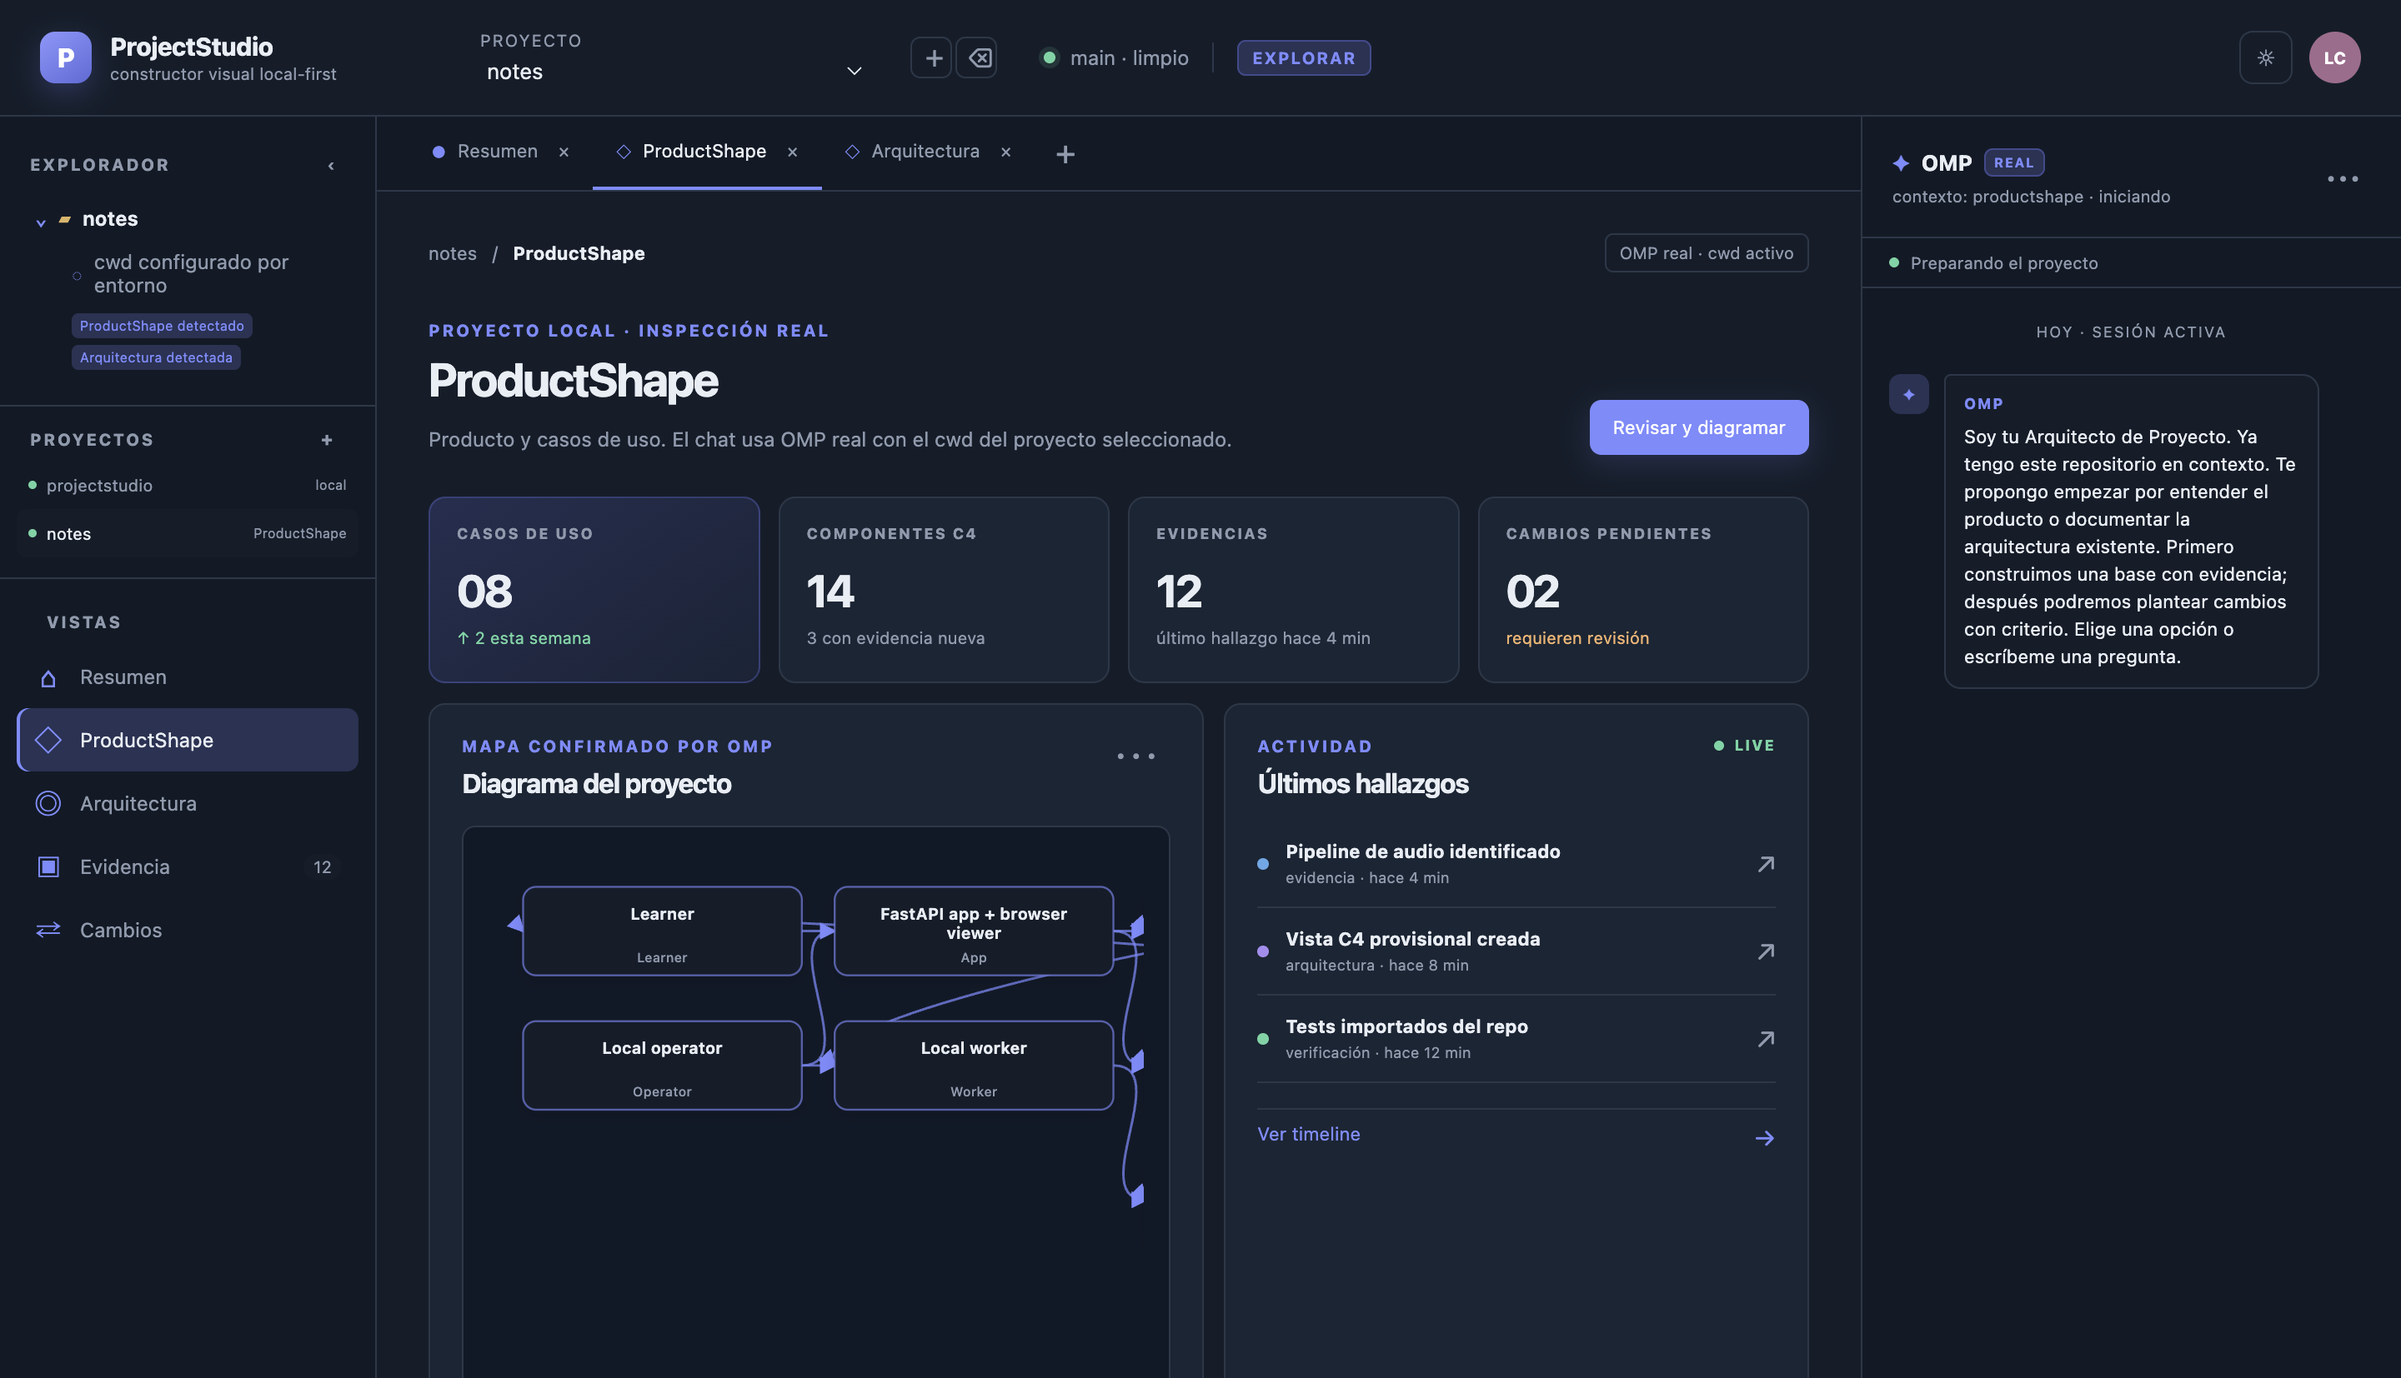
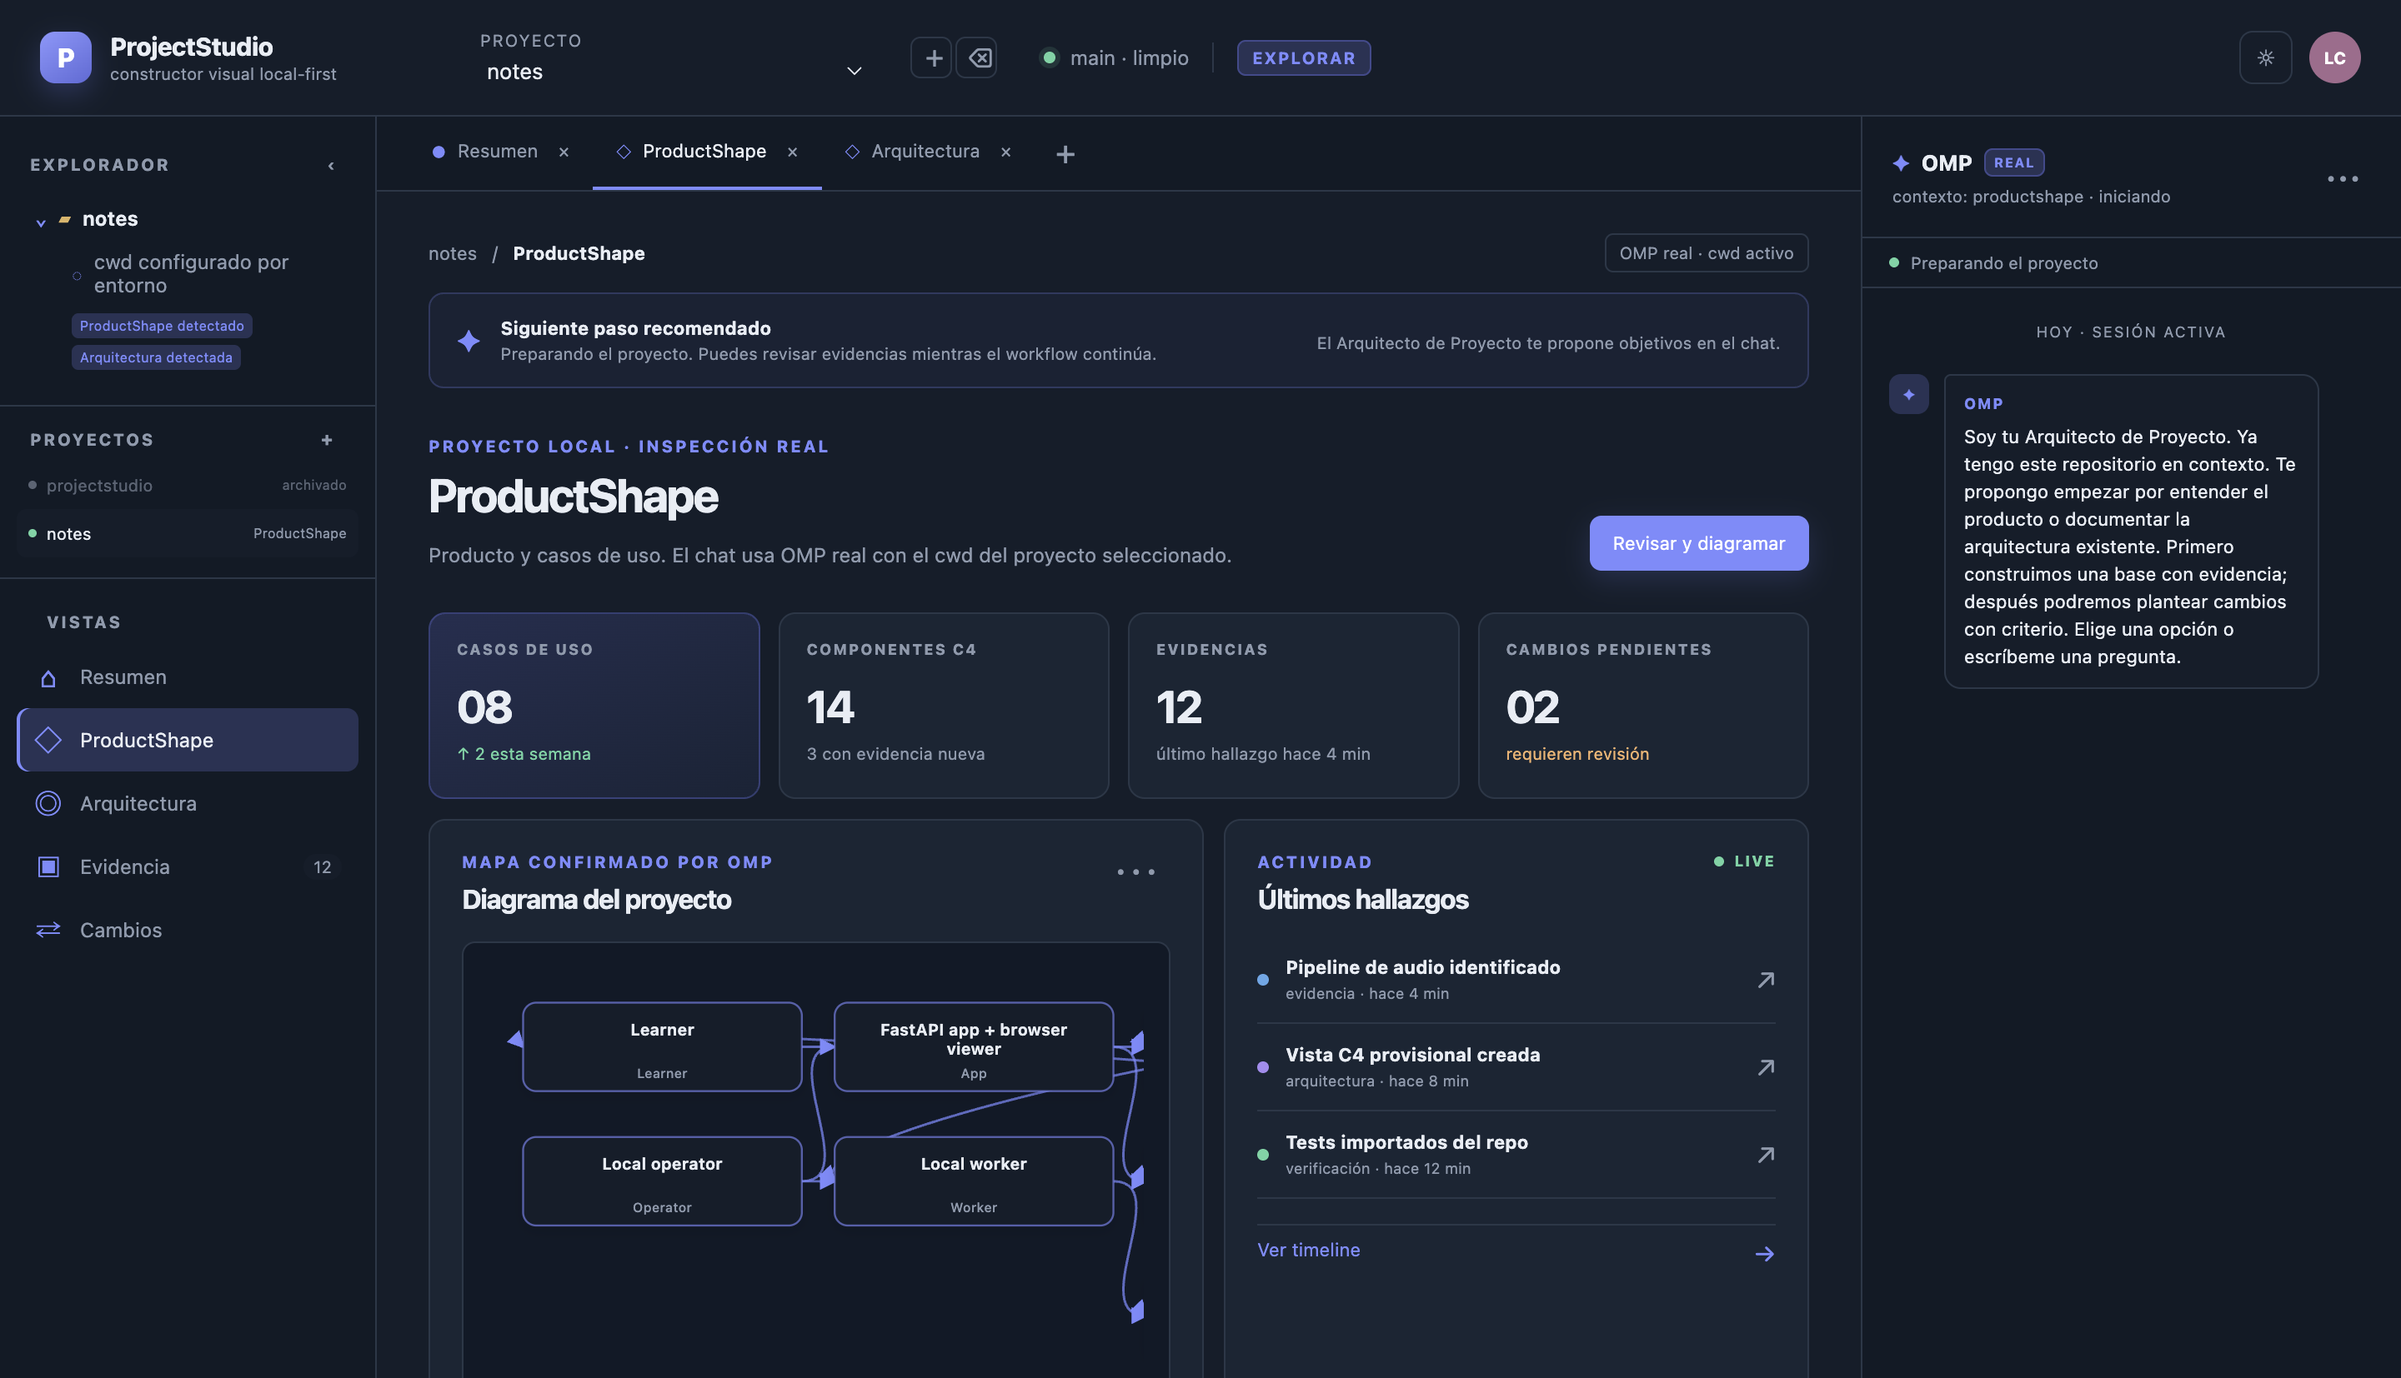
test: cover human brownfield journeys

diff --git a/apps/desktop/src/renderer/main.tsx b/apps/desktop/src/renderer/main.tsx
@@ -82,7 +82,12 @@ function displayChatStatus(status: string): string {
   if (status === "starting" || status === "submitting") return "iniciando";
   return "trabajando";
 }
-
+function humanizeError(error: unknown): string {
+  const message = error instanceof Error ? error.message : String(error);
+  if (/ENOENT|spawn .*omp|omp.*not found/i.test(message)) return "No se pudo conectar con OMP. Comprueba que `omp` está instalado, autenticado y disponible en PATH.";
+  if (/login|auth|credential|model/i.test(message)) return "OMP necesita autenticación y un modelo configurado. Ejecuta `omp login` y vuelve a intentarlo.";
+  return message;
+}
 function App(): JSX.Element {
   const [section, setSection] = useState<Section>("Resumen");
   const [theme, setTheme] = useState<"dark" | "light">("dark");
@@ -118,7 +123,7 @@ function App(): JSX.Element {
     setChatMode(result.mode);
     setChatStatus(result.status);
     setProject(`${result.projectName} · cwd configurado`);
-    if (result.error) setChatError(result.error);
+    if (result.error) setChatError(humanizeError(result.error));
     const bootstrap = await window.studio.project.bootstrap({ resume: false });
     if (bootstrap.status === "running") {
       setSending(true);
@@ -162,7 +167,7 @@ function App(): JSX.Element {
           window.setTimeout(() => void sendMessage(nextObjective.prompt, nextObjective.workflow), 0);
         }
       } else if (event.type === "warning" || event.type === "error") {
-        setChatError(event.message);
+        setChatError(humanizeError(event.message));
         setActivity("No se pudo completar la tarea");
         setChatStatus("failed");
         setSending(false);
@@ -170,7 +175,7 @@ function App(): JSX.Element {
     });
     void reloadProjectSurface().catch((error: unknown) => {
       setChatStatus("failed");
-      setChatError(error instanceof Error ? error.message : String(error));
+      setChatError(humanizeError(error));
       setBootstrapFailed(true);
       setActivity("No se pudo cargar el proyecto");
     });
@@ -199,7 +204,7 @@ function App(): JSX.Element {
     } catch (error) {
       setBootstrapFailed(true);
       setSending(false);
-      setChatError(error instanceof Error ? error.message : String(error));
+      setChatError(humanizeError(error));
       setActivity("No se pudo reanudar el descubrimiento");
     }
   }
@@ -216,7 +221,7 @@ function App(): JSX.Element {
       await window.studio.command.submit({ workflow: requestedWorkflow ?? workflowForSection(section), prompt: text });
     } catch (error) {
       setSending(false);
-      setChatError(error instanceof Error ? error.message : String(error));
+      setChatError(humanizeError(error));
       setChatStatus("failed");
       setActivity("No se pudo iniciar la tarea");
     }
@@ -342,6 +347,16 @@ function App(): JSX.Element {
           </div>
           <div className="content-scroll">
             <div className="breadcrumb"><span>{project.split(" · ")[0]}</span><span>/</span><strong>{selectedNavigation.section}</strong><span className="breadcrumb-spacer" /><span className="revision-label">OMP real · cwd activo</span></div>
+            <section className="welcome-strip">
+              <div className="welcome-icon">✦</div>
+              <div>
+                <strong>{sending ? "Descubrimiento en curso" : "Siguiente paso recomendado"}</strong>
+                <span>{activity}. Puedes revisar evidencias mientras el workflow continúa.</span>
+              </div>
+              {bootstrapFailed
+                ? <button className="outline-button" onClick={() => void continueDiscovery()}>Continuar análisis</button>
+                : <span className="suggestion-note">El Arquitecto de Proyecto te propone objetivos en el chat.</span>}
+            </section>
             <section className="hero-section">
               <div>
                 <div className="eyebrow">PROYECTO LOCAL · INSPECCIÓN REAL</div>
@@ -382,16 +397,6 @@ function App(): JSX.Element {
                 </div>
                 <button className="card-link" onClick={() => setSection("Evidencia")}>Ver timeline <span>→</span></button>
               </article>
-            </section>
-            <section className="welcome-strip">
-              <div className="welcome-icon">✦</div>
-              <div>
-                <strong>{sending ? "Descubrimiento en curso" : "Siguiente paso recomendado"}</strong>
-                <span>{activity}. Puedes revisar evidencias mientras el workflow continúa.</span>
-              </div>
-              {bootstrapFailed
-                ? <button className="outline-button" onClick={() => void continueDiscovery()}>Continuar análisis</button>
-                : <span className="suggestion-note">El Arquitecto de Proyecto te propone objetivos en el chat.</span>}
             </section>
           </div>
         </main>

diff --git a/tests/e2e/journey-scenarios.ts b/tests/e2e/journey-scenarios.ts
@@ -1,0 +1,76 @@
+import { _electron as electron, type ElectronApplication, type Page } from "playwright";
+import { createHash } from "node:crypto";
+import { access, mkdir, readFile, unlink, writeFile } from "node:fs/promises";
+import { basename, resolve } from "node:path";
+
+const root = resolve(import.meta.dirname, "../..");
+const main = resolve(root, "apps/desktop/dist/main.js");
+const notesRoot = process.env.PROJECTSTUDIO_NOTES_ROOT ?? "/Users/luis/projects/notes";
+const registryPath = resolve(root, ".tmp", "projectstudio-projects.json");
+const environment = Object.fromEntries(Object.entries(process.env).filter((entry): entry is [string, string] => entry[1] !== undefined));
+
+async function launch(projectRoot: string, extra: Record<string, string> = {}): Promise<ElectronApplication> {
+  return electron.launch({
+    args: [main],
+    cwd: root,
+    env: { ...environment, ELECTRON_IS_DEV: "0", PROJECTSTUDIO_PROJECT_ROOT: projectRoot, PROJECTSTUDIO_SKIP_BOOTSTRAP: "1", ...extra },
+  });
+}
+
+async function waitForProject(page: Page, name: string): Promise<void> {
+  await page.waitForFunction((expected) => Array.from(document.querySelectorAll(".project-picker select option")).some((option) => option.textContent?.includes(expected)), name);
+}
+
+const originalRegistry = await readFile(registryPath, "utf8").catch(() => null);
+const activeMarkerPath = resolve(root, ".tmp", "project-discovery", `${createHash("sha256").update(root).digest("hex").slice(0, 16)}.json`);
+const originalMarker = await readFile(activeMarkerPath, "utf8").catch(() => null);
+const fixtureRoot = resolve(root, ".tmp", "journey-new-project");
+await mkdir(fixtureRoot, { recursive: true });
+await writeFile(resolve(fixtureRoot, "README.md"), "# Journey fixture\n", "utf8");
+
+let app: ElectronApplication | undefined;
+try {
+  app = await launch(notesRoot);
+  let page = await app.firstWindow();
+  await waitForProject(page, basename(notesRoot));
+  await page.getByTitle("Producto y casos de uso").click();
+  await page.getByRole("heading", { name: "ProductShape" }).waitFor();
+  await page.locator(".generated-system-map .diagram-canvas").waitFor();
+  console.log("scenario existing-notes: pass");
+  await app.close();
+  app = undefined;
+
+  app = await launch(fixtureRoot);
+  page = await app.firstWindow();
+  await waitForProject(page, basename(fixtureRoot));
+  if (!(await page.locator(".tree-root").innerText()).includes("journey-new-project")) throw new Error("new project was not registered");
+  console.log("scenario new-project-reference: pass");
+  await app.close();
+  app = undefined;
+
+  await writeFile(activeMarkerPath, `${JSON.stringify({ projectRoot: root, status: "running", updatedAt: new Date().toISOString() })}\n`, "utf8");
+  app = await launch(root, { PROJECTSTUDIO_SKIP_BOOTSTRAP: "0" });
+  page = await app.firstWindow();
+  await page.getByRole("button", { name: "Entender el proyecto" }).waitFor();
+  await page.locator(".chat-activity").filter({ hasText: "Descubrimiento inicial en curso" }).waitFor();
+  if (!(await page.getByRole("button", { name: "Entender el proyecto" }).isEnabled())) throw new Error("objective disabled while discovery is active");
+  await page.getByRole("button", { name: "Entender el proyecto" }).click();
+  await page.locator(".chat-activity").filter({ hasText: "Objetivo preparado" }).waitFor();
+  console.log("scenario active-discovery-queues-objective: pass");
+  await app.close();
+  app = undefined;
+
+  app = await launch(root, { OMP_BIN: "/definitely/missing/omp" });
+  page = await app.firstWindow();
+  await page.locator(".chat-error").waitFor();
+  const errorText = await page.locator(".chat-error").innerText();
+  if (!errorText.includes("No se pudo conectar con OMP")) throw new Error(`unexpected OMP error surface: ${errorText}`);
+  console.log("scenario omp-error: pass");
+} finally {
+  await app?.close();
+  if (originalRegistry === null) await unlink(registryPath).catch(() => undefined);
+  else await writeFile(registryPath, originalRegistry, "utf8");
+  if (originalMarker === null) await unlink(activeMarkerPath).catch(() => undefined);
+  else await writeFile(activeMarkerPath, originalMarker, "utf8");
+  await access(fixtureRoot);
+}

diff --git a/docs/implementation/JOURNEY-BROWNFIELD.md b/docs/implementation/JOURNEY-BROWNFIELD.md
@@ -21,7 +21,7 @@ Terminar con:
 | 1. Abrir | Ejecuta ProjectStudio con un repo local | Lista de proyectos, nombre, cwd y señales detectadas | Registro local + filesystem | El proyecto activo es inequívoco |
 | 2. Reconocer | Mira `ProductShape detectado` y `Arquitectura detectada` | Señales de carpetas reales, no afirmaciones del agente | Detector determinista | Decide si el proyecto tiene documentación reutilizable |
 | 3. Orientarse | Lee el saludo del `Arquitecto de Proyecto` | Personalidad, límites y dos objetivos: entender producto o documentar arquitectura | UI + prompt de personalidad del workflow | Puede empezar sin inventar una pregunta |
-| 4. Descubrir | Pulsa **Entender el proyecto** | Progreso resumido; no prompts, RPC frames ni razonamiento interno | `brownfield-discovery` → LangGraph → OMP real | El objetivo se ejecuta o queda en cola si el bootstrap sigue activo |
+| 4. Descubrir | Pulsa **Entender el proyecto** | Estado y progreso arriba del contenido; actividad resumida en el chat; no prompts, RPC frames ni razonamiento interno | `brownfield-discovery` → LangGraph → OMP real | El objetivo se ejecuta o queda en cola si el bootstrap sigue activo |
 | 5. Ver evidencia | Navega mientras el agente trabaja | Actividad, respuesta final y diagrama con rutas/evidencia | Eventos normalizados + artefacto guardado | Puede distinguir observado de inferido |
 | 6. Documentar | Pulsa **Documentar arquitectura** cuando el baseline esté disponible | Arquitectura existente, no una propuesta cloud prematura | `architecture-documentation` | Existe una vista que el equipo puede revisar |
 | 7. Preguntar | Escribe una pregunta concreta en el composer derecho | Respuesta contextual al proyecto activo | Mismo CommandBus/workflow, no canal directo | La respuesta conserva el contexto del proyecto |
@@ -38,7 +38,7 @@ Terminar con:
 
 ## Verificación automatizada asociada
 
-- `pnpm test:e2e:journey`: arranque con discovery interrumpido; la UI muestra `Continuar análisis` en vez de dejar objetivos bloqueados indefinidamente.
+- `pnpm test:e2e:journey:scenarios`: proyecto existente, referencia nueva, discovery activo con objetivo encolado, error OMP y cambio de contexto.
 - `pnpm test:f04`: pasos 3–7 con OMP real; hace clic en **Entender el proyecto**, verifica respuesta final y ausencia de prompt interno.
 - `pnpm test:e2e:notes:diagram`: pasos 1–2 y 5 con el artefacto Mermaid almacenado; `tokensUsed: false`.
 - `pnpm test:e2e:projects`: paso 8; archiva la referencia y verifica que la ruta sigue existiendo.

diff --git a/docs/implementation/STATUS.md b/docs/implementation/STATUS.md
@@ -121,6 +121,8 @@ OMP_BIN=/ruta/a/omp pnpm desktop
 | F05-T11 | done | personalidad visible del Arquitecto de Proyecto, objetivos sugeridos dentro del chat y composer visible |
 | F05-T12 | done | `docs/implementation/JOURNEY-BROWNFIELD.md`: journey brownfield, reglas de orden y smoke asociado |
 | F05-T13 | done | discovery interrumpido se marca reanudable; no deja objetivos bloqueados por un marcador stale |
+| F05-T14 | done | escenarios humanos: proyecto existente, referencia nueva, discovery activo, cola de objetivo y error OMP comprensible |
+| F05-T15 | done | estado/progreso de ProductShape subido encima del contenido principal |
 ### Verificación F05
 
 ```bash
@@ -138,6 +140,16 @@ pnpm test:e2e:notes:diagram
 ```
 
 El smoke test abre Notes, selecciona ProductShape, comprueba `.generated-system-map .diagram-canvas` con `MuScriptor` y `SQLite`, y guarda `F05-T06-notes-stored-diagram.png` y `.md`.
+
+Journey humano completo, sin mostrar prompts internos:
+
+```bash
+pnpm test:e2e:journey:scenarios
+```
+
+Resultado observado: `existing-notes`, `new-project-reference`, `active-discovery-queues-objective` y `omp-error` pasan. El caso OMP ausente muestra una instrucción accionable y no expone `ENOENT`.
+
+La captura `F05-T06-notes-stored-diagram.png` confirma que el estado `Siguiente paso recomendado` aparece inmediatamente bajo el breadcrumb de `ProductShape`, antes del hero, métricas y diagrama.
 
 Para iterar el renderer sin consumir otra respuesta OMP:
 ```bash

diff --git a/README.md b/README.md
@@ -111,11 +111,12 @@ Smoke Electron real:
 ```bash
 pnpm test:f04
 pnpm test:e2e:journey
+pnpm test:e2e:journey:scenarios
 pnpm test:e2e:projects
 pnpm test:e2e:notes:diagram
 ```
 
-`test:f04` usa el OMP instalado y autenticado por el usuario y recorre el click de un objetivo hasta la respuesta real. `test:e2e:journey` verifica que un discovery interrumpido ofrece `Continuar análisis`. `test:e2e:projects` prueba el archivado reversible y confirma que la ruta sigue existiendo. `test:e2e:notes:diagram` reutiliza el Mermaid almacenado, no envía prompts ni consume tokens.
+`test:f04` usa el OMP instalado y autenticado por el usuario y recorre el click de un objetivo hasta la respuesta real. `test:e2e:journey` verifica discovery interrumpido y reanudable. `test:e2e:journey:scenarios` recorre proyecto existente, referencia nueva, discovery activo con objetivo encolado y error OMP. `test:e2e:projects` prueba el archivado reversible y confirma que la ruta sigue existiendo. `test:e2e:notes:diagram` reutiliza el Mermaid almacenado, no envía prompts ni consume tokens.
 
 El smoke de Playwright usa el OMP instalado y autenticado por el usuario. Genera capturas reales en:
 
